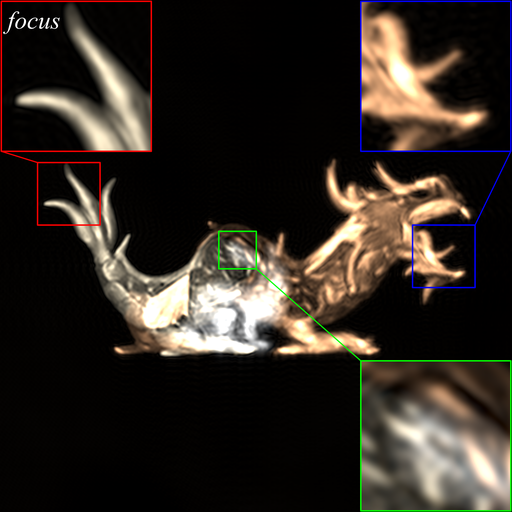
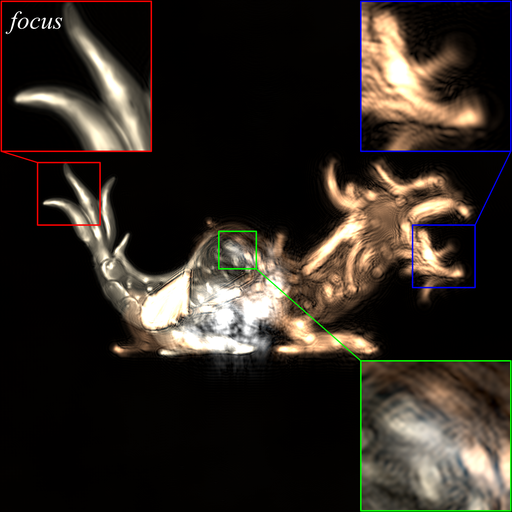
Version_260402_2

diff --git a/model/Reconstruction_mutiview.py b/model/Reconstruction_mutiview.py
@@ -129,7 +129,7 @@ python /workspace/yh/project/CGHReview/model/Reconstruction_RGB_mutiview.py \
   --mode asm_pad \
   --remove_dc 1 \
   --vis_mode mesh_style \
-  --zmin 2 --zmax 2.05 --step 0.05 \
+  --zmin 1.9 --zmax 1.95 --step 0.05 \
   --view_grid 9 --aperture_ratio 0.35 --max_shift_ratio 0.8 \
   --gamma 0.9 --out_size 2048 --save_mosaic
 
